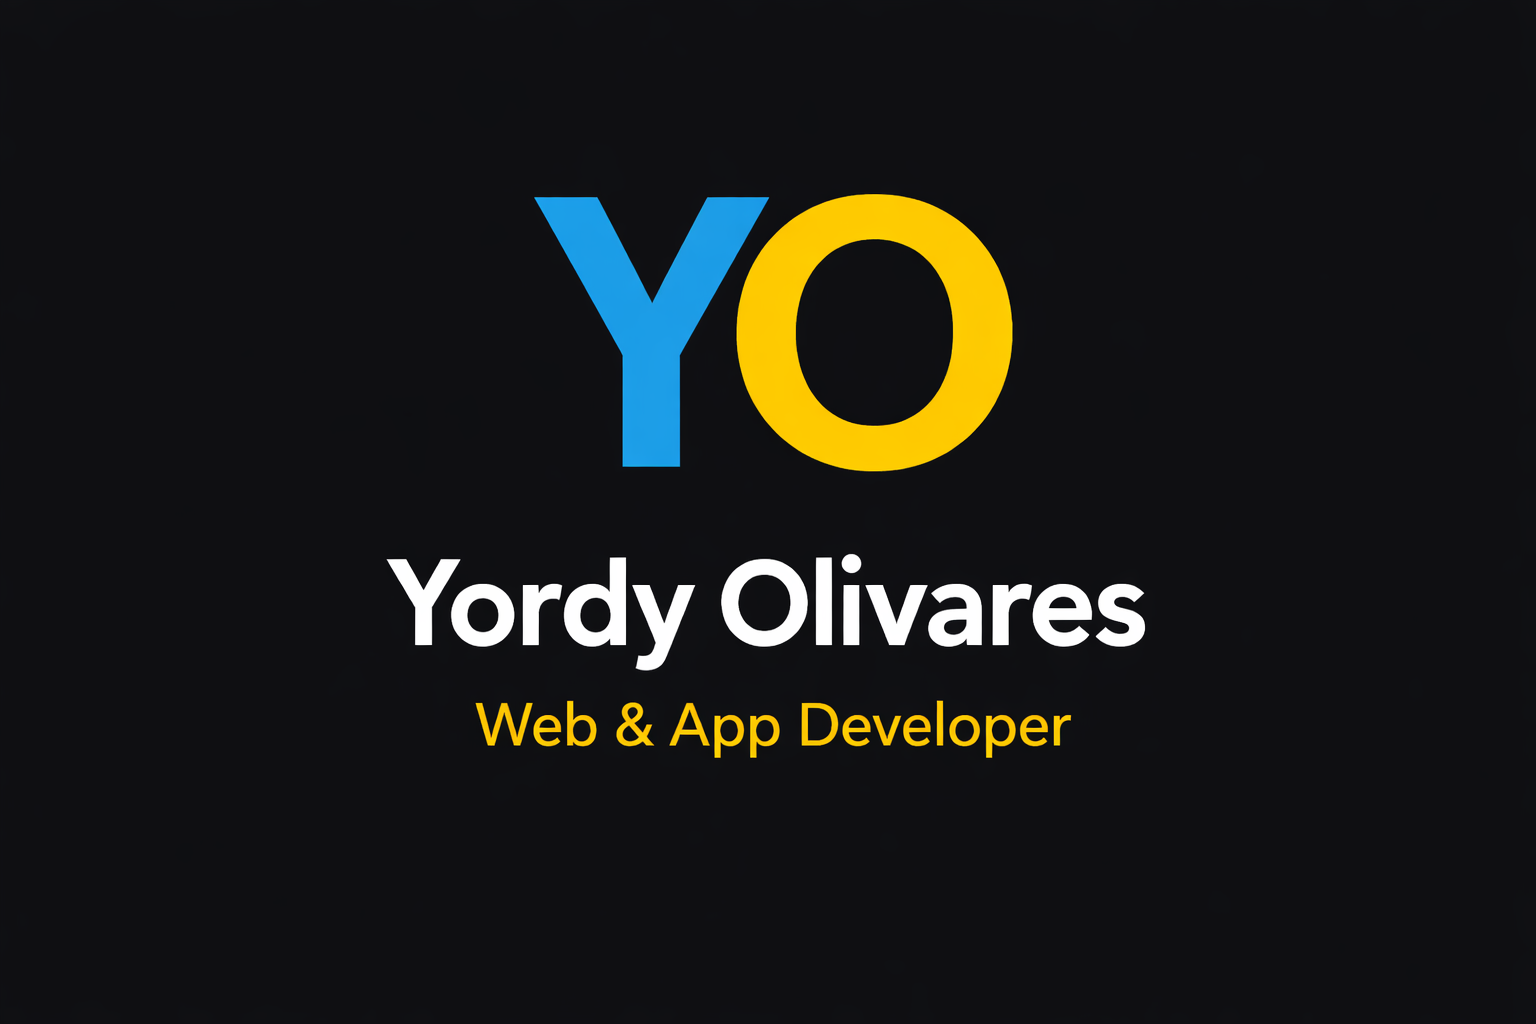
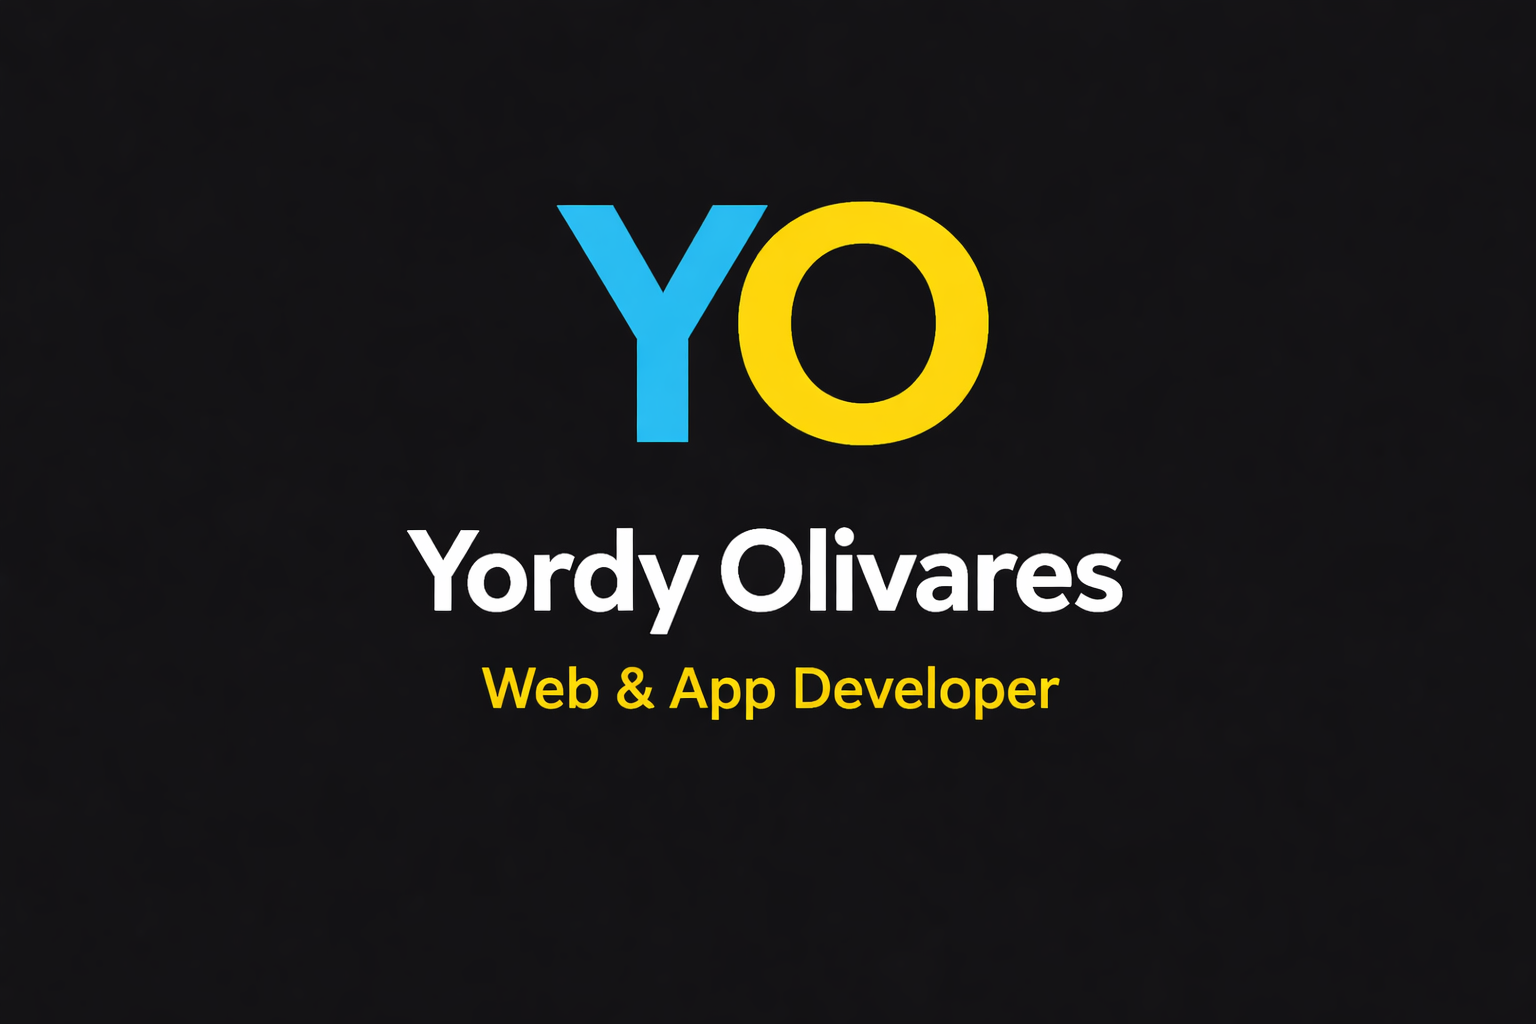
cambiando de nuevo la imagen para compartir Open GRAPH con mejores medidas para compartir  en redes  sociales mas calidad de imagen

Changed region(s): [[0.25, 0.5, 0.75, 0.75], [0.3438, 0.1875, 0.5312, 0.4688], [0.5, 0.1875, 0.6562, 0.4688]]

diff --git a/index.html b/index.html
@@ -16,11 +16,11 @@
             <meta name="twitter:card" content="summary_large_image">
             <meta name="twitter:title" content="Yordy Olivares | Web & App Developer">
             <meta name="twitter:description" content="Desarrollador web y móvil especializado en soluciones modernas y funcionales.">
-            <meta name="twitter:image" content="https://TU-USUARIO.github.io/TU-REPOSITORIO/imagenes/preview.png">
+            <meta name="twitter:image" content="https://olivaresy.github.io/Portafolio_web1/imagenes/image_Shared.png">
 
-            <link rel="icon" type="image/png" sizes="32x32" href="imagenes/YO.png">
-            <link rel="icon" type="image/png" sizes="16x16" href="imagenes/YO.png">
-            <link rel="apple-touch-icon" sizes="180x180" href="imagenes/YO.png">
+            <link rel="icon" type="image/png" sizes="32x32" href="imagenes/logo_YO.png">
+            <link rel="icon" type="image/png" sizes="16x16" href="imagenes/logo_YO.png">
+            <link rel="apple-touch-icon" sizes="180x180" href="imagenes/logo_YO.png">
             
             <link rel="stylesheet" href="styles.css">
             <link href="https://fonts.googleapis.com/css2?family=Poppins:wght@400;600;700&display=swap" rel="stylesheet">
@@ -33,7 +33,7 @@
                 <!--lado IZQUIERDO-->
                 <aside class="sidebar">
                     <figure>
-                        <img src="imagenes/foto_perfil_portafolio.png" alt="Foto de perfil de Yordy Olivares">
+                        <img src="imagenes/fotoPerfil_portafolio.jpeg" alt="Foto de perfil de Yordy Olivares">
                         <figcaption>
                             <strong>Yordy Olivares</strong>
 
@@ -172,7 +172,7 @@
                             <div class="projects-container">
 
                                 <article class="card">
-                                    <img src="imagenes/proyecto1.jpg" alt="Proyecto 1">
+                                    <img src="imagenes/proyecto1.png" alt="Proyecto 1">
                                     <h3>Sistema de Gestión Web</h3>
                                     <p>
                                         Aplicación web desarrollada con HTML, CSS y JavaScript para la 
@@ -181,7 +181,7 @@
                                     </article>
 
                                     <article class="card">
-                                    <img src="imagenes/proyecto2.jpg" alt="Proyecto 2">
+                                    <img src="imagenes/proyecto2.png" alt="Proyecto 2">
                                     <h3>App Móvil Informativa</h3>
                                     <p>
                                         Aplicación móvil desarrollada para brindar información interactiva 
@@ -190,7 +190,7 @@
                                     </article>
 
                                     <article class="card">
-                                    <img src="imagenes/proyecto3.jpg" alt="Proyecto 3">
+                                    <img src="imagenes/proyecto3.png" alt="Proyecto 3">
                                     <h3>Base de Datos Empresarial</h3>
                                     <p>
                                         Implementación de base de datos en Oracle para gestión empresarial, 
